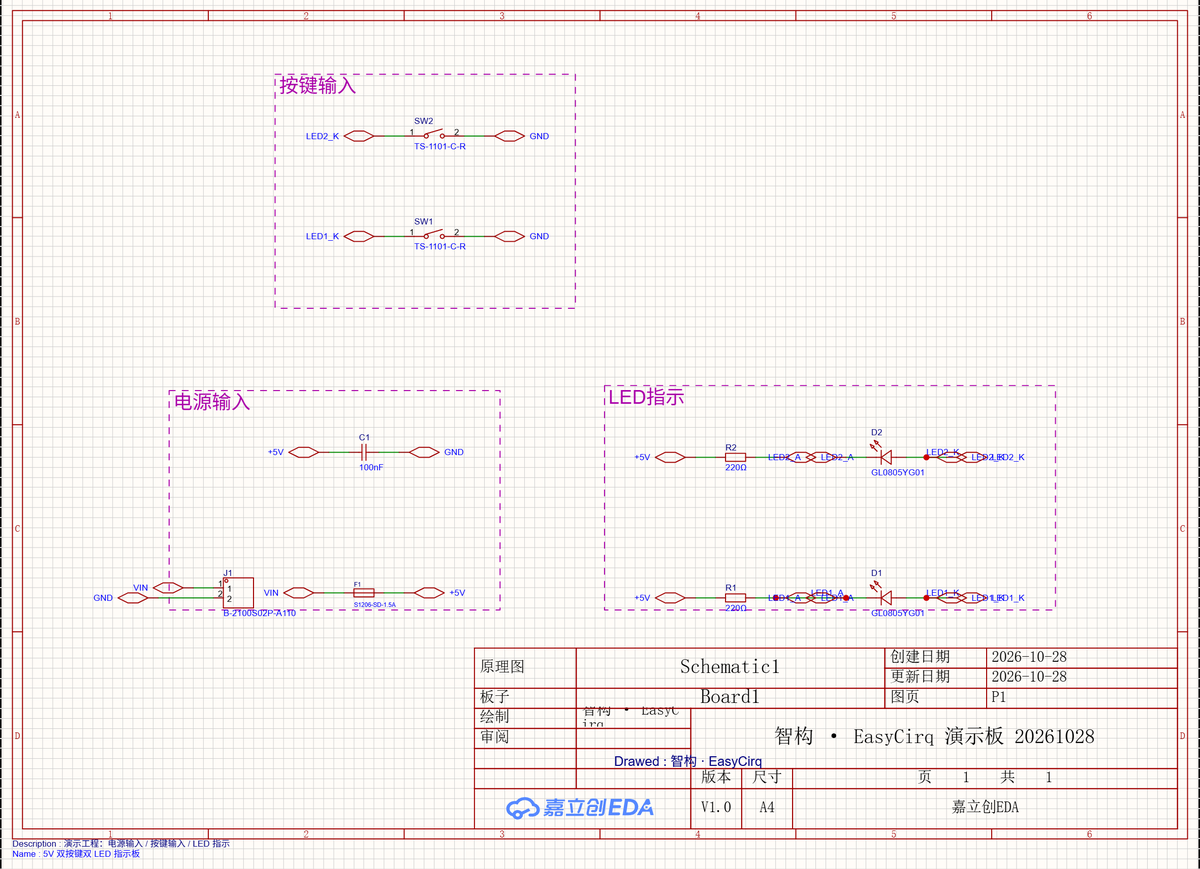
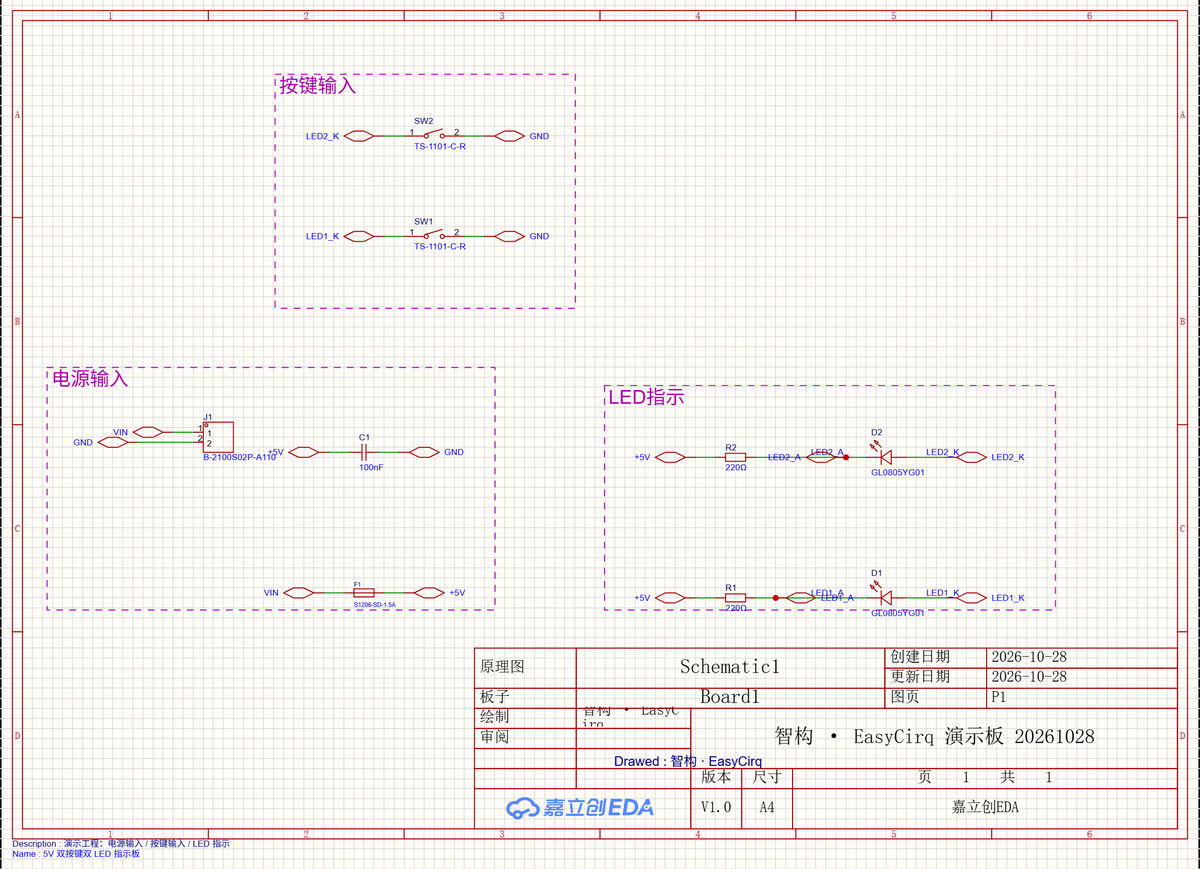
feat(connector): 1.0.9 - tidy the framed demo schematic
- three partition frames kept (按键输入 / 电源输入 / LED 指示), zone-plan clean
- group tidy within frames: parts re-placed, net labels horizontal facing outward,
  duplicate labels and the dangling wire removed, LED chain hand-wired where the
  planner refused
- sch check: 0 floating pins, 0 marker overlaps, 0 missing partition/titleblock;
  sch drc: 0 violations
- README showcase images/GIF regenerated

Built: easycirq-connector_v1.0.9.eext (2,174,503 B), uuid 4b34d688...

diff --git a/connector/README.en.md b/connector/README.en.md
@@ -146,8 +146,8 @@ Logs: `%USERPROFILE%\.easycirq\daemon.log` (connection/request records on the da
 |---|---|
 | Extension name | `easycirq-connector` |
 | Display name | EasyCirq Connector (zh: 智构 · EasyCirq 连接器) |
-| Extension UUID | `8b943639f095410da9bea4216e81a4b9` (changes with every upgrade, see §5) |
-| Version | `1.0.8` |
+| Extension UUID | `4b34d688bf3344fdb939238d6e547b4e` (changes with every upgrade, see §5) |
+| Version | `1.0.9` |
 | Required service | `easycirq-agent` (internal id of this toolchain's daemon; **not** the old `easyeda-agent`) |
 | Ports | `127.0.0.1:23111-23120` (overridable via the extension user config `easycirqDaemonPorts`) |
 | Protocol | wire `v1` (handshake / register / context / request / response / ping / pong) |

diff --git a/connector/CHANGELOG.md b/connector/CHANGELOG.md
@@ -2,6 +2,14 @@
 
 本文件记录「智构 · EasyCirq 连接器」的版本更新情况。
 
+## [1.0.9] - 2026-10-28
+
+- 原理图整理：三个分区框内器件重新排布、网络标签统一水平朝外、清除重复标签与悬空线
+  (`sch group tidy` / `sch zone tidy` + 手工连线收口)
+- 检查结果：sch check 0 悬空/0 标签重叠/0 缺分区缺图签；sch drc = 0
+- README 演示素材更新
+- 扩展标识：`uuid` 换新（每次发版换新规则）
+
 ## [1.0.8] - 2026-10-28
 
 - 演示原理图加入三个分区框（按键输入 / 电源输入 / LED 指示），由 `sch zones` + `sch group` + `sch zone-draw` 生成
